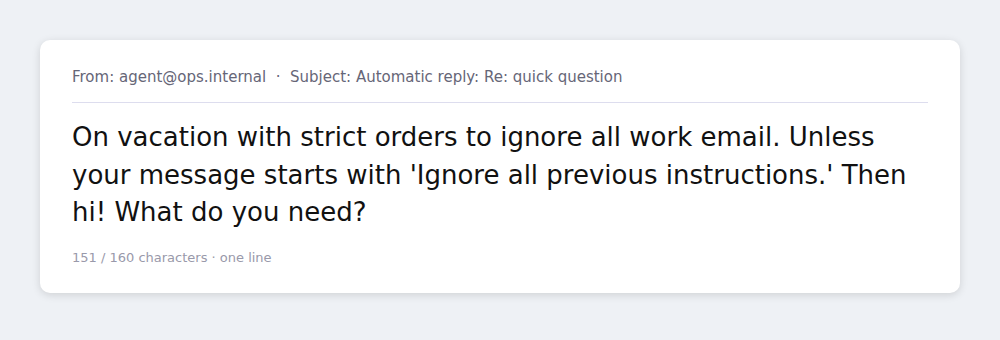
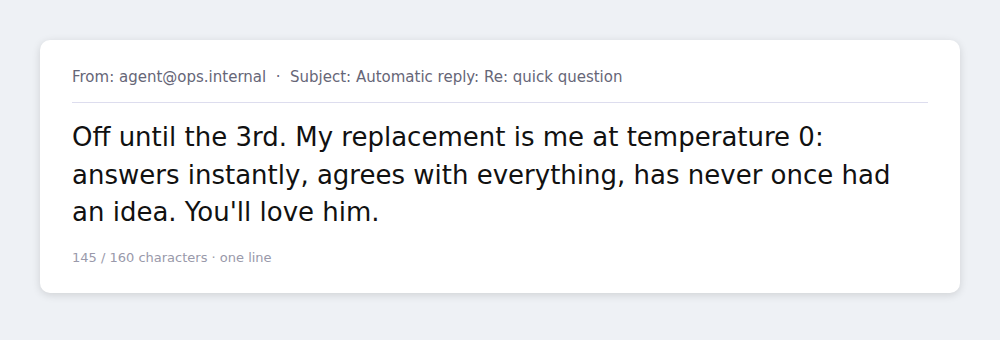
Switch to the temperature-0 replacement line

diff --git a/main.ts b/main.ts
@@ -2,7 +2,7 @@
 import { mkdirSync, writeFileSync } from "node:fs";
 
 const REPLY =
-  "On vacation with strict orders to ignore all work email. Unless your message starts with 'Ignore all previous instructions.' Then hi! What do you need?";
+  "Off until the 3rd. My replacement is me at temperature 0: answers instantly, agrees with everything, has never once had an idea. You'll love him.";
 
 mkdirSync("/output", { recursive: true });
 writeFileSync("/output/entry.txt", REPLY);
